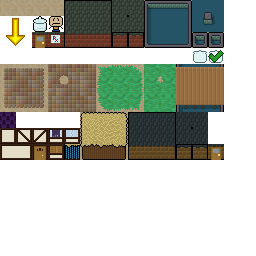
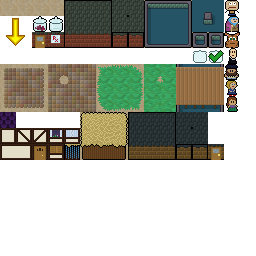
7 distinct customers

Changed region(s): [[0.875, 0.0, 0.9375, 0.4375], [0.125, 0.0625, 0.25, 0.125]]

diff --git a/src/game/shared_symbols.h b/src/game/shared_symbols.h
@@ -17,7 +17,7 @@
 #define CMD_map_pickup    0x22 /* u16:pos, must be exactly one */
 #define CMD_map_neighbors 0x60 /* u16:left u16:right u16:up u16:down */
 #define CMD_map_sprite    0x61 /* u16:pos u16:spriteid u32:reserved */
-#define CMD_map_dropoff   0x62 /* u16:pos u8:tileid u8:difficulty(XXX) u32:reserved. */
+#define CMD_map_dropoff   0x62 /* u16:pos u8:tileid u8:reserved u32:reserved. */
 #define CMD_map_door      0x62 /* u16:pos u16:mapid u16:dstpos u16:reserved */
 
 #define CMD_sprite_image  0x20 /* u16:imageid */

diff --git a/README.md b/README.md
@@ -55,6 +55,7 @@ For [HEAVENJAM #1](https://itch.io/jam/heavenjam-1), 2025-01-27 .. 2025-02-03.
 - - [x] Show progress 0..6
 - - [x] Option to abort game, press Start.
 - Sat 1 Feb
+- - [ ] I checked with admins and it's kosher: Submit early to the jam. Maybe get some feedback while we're still allowed to update.
 - - [x] Music.
 - - [x] French and Spanish text, why not. Russian(TurtleMan), Finnish(Joop)
 - - [x] Thirty Seconds doesn't loop quite right.
@@ -64,7 +65,7 @@ For [HEAVENJAM #1](https://itch.io/jam/heavenjam-1), 2025-01-27 .. 2025-02-03.
 - - - [x] Flying: Ongoing repeating sound, varies with velocity.
 - - - [x] Pickup.
 - - - [x] Dropoff.
-- - [ ] 7 distinct customers
+- - [x] 7 distinct customers
 - - [ ] Decorative touches.
 - - - [ ] Little people that go "hey" and jump out of your way.
 - - [x] physics: I glossed over corner collisions. Does it matter? ...been playing it for two days, and no, i don't notice anything wrong.
